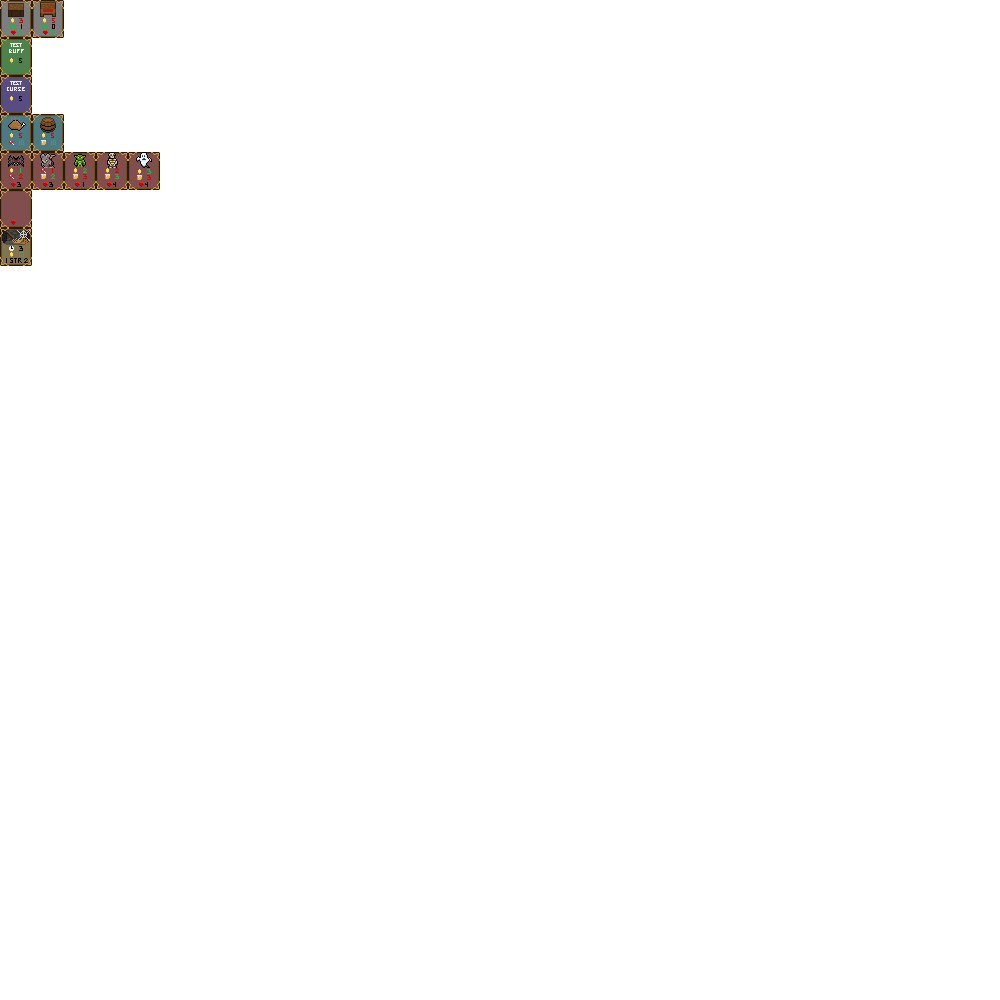
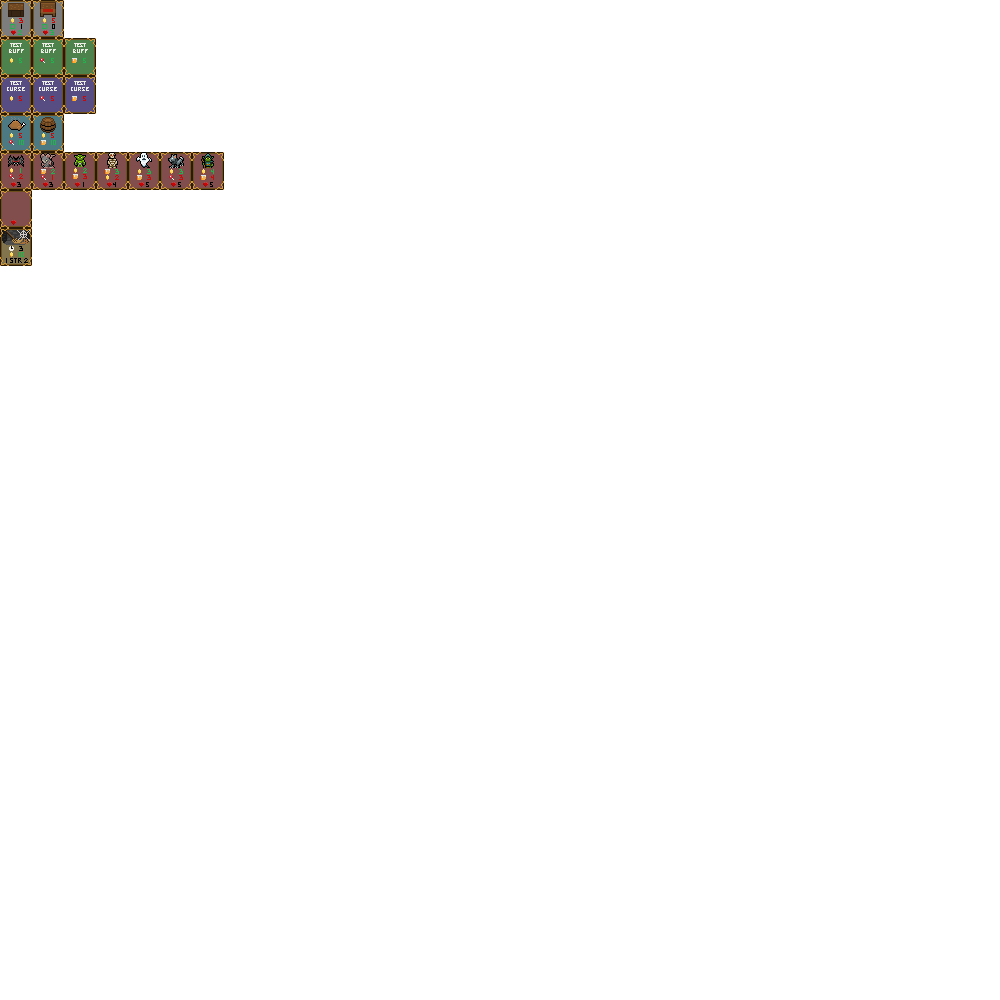
Added More Curses, Buffs and Characters

Changed region(s): [[0.031, 0.031, 0.093, 0.124], [0.155, 0.155, 0.248, 0.217]]

diff --git a/db.js b/db.js
@@ -5,7 +5,11 @@ var OBJECTSPRITES = {
 
 var BUFFCURSESPRITES = {
     "testBuff" : new Vector2D(0, 1),
-    "testCurse" : new Vector2D(0, 2)
+    "testBuff1" : new Vector2D(1, 1),
+    "testBuff2" : new Vector2D(2,1),
+    "testCurse" : new Vector2D(0, 2),
+    "testCurse1" : new Vector2D(1, 2),
+    "testCurse2" : new Vector2D(2, 2)
 }
 
 var RSCCARDSPRITES = {
@@ -17,7 +21,10 @@ var CHARCARDSPRITES = {
     "bat" : new Vector2D(0, 4),
     "rat" : new Vector2D(1, 4),
     "goblin" : new Vector2D(2, 4),
-    "skeleton" : new Vector2D(3, 4)
+    "skeleton" : new Vector2D(3, 4),
+    "ghost" : new Vector2D(4,4),
+    "wolf" : new Vector2D(5,4),
+    "goblinmage" : new Vector2D(6,4)
 }
 
 var QUESTCARDSPRITES = {
@@ -133,13 +140,21 @@ class Database
     LoadBuffCards()
     {
         this.buffCards.push(new BuffCard(BUFFCURSESPRITES["testBuff"].x, BUFFCURSESPRITES["testBuff"].y,
-                                             BUFFCURSESPRITES["testBuff"].x, BUFFCURSESPRITES["testBuff"].y, this.gold, 5));
+                                         BUFFCURSESPRITES["testBuff"].x, BUFFCURSESPRITES["testBuff"].y, this.gold, 5));
+        this.buffCards.push(new BuffCard(BUFFCURSESPRITES["testBuff1"].x, BUFFCURSESPRITES["testBuff1"].y,
+                                         BUFFCURSESPRITES["testBuff1"].x, BUFFCURSESPRITES["testBuff1"].y, this.food, 5));
+        this.buffCards.push(new BuffCard(BUFFCURSESPRITES["testBuff2"].x, BUFFCURSESPRITES["testBuff2"].y,
+                                         BUFFCURSESPRITES["testBuff2"].x, BUFFCURSESPRITES["testBuff2"].y, this.beer, 5));
     }
 
     LoadCurseCards()
     {
         this.curseCards.push(new CurseCard(BUFFCURSESPRITES["testCurse"].x, BUFFCURSESPRITES["testCurse"].y,
                                            BUFFCURSESPRITES["testCurse"].x, BUFFCURSESPRITES["testCurse"].y, this.gold, 5));
+        this.curseCards.push(new BuffCard(BUFFCURSESPRITES["testCurse1"].x, BUFFCURSESPRITES["testCurse1"].y,
+                                           BUFFCURSESPRITES["testCurse1"].x, BUFFCURSESPRITES["testCurse1"].y, this.food, 5));
+        this.curseCards.push(new BuffCard(BUFFCURSESPRITES["testCurse2"].x, BUFFCURSESPRITES["testCurse2"].y,
+                                           BUFFCURSESPRITES["testCurse2"].x, BUFFCURSESPRITES["testCurse2"].y, this.beer, 5));
     }
 
     LoadResourceCards()
@@ -167,7 +182,19 @@ class Database
         this.charCards.push(new CharacterCard(CHARCARDSPRITES["skeleton"].x, CHARCARDSPRITES["skeleton"].y,
                                               CHARCARDSPRITES["skeleton"].x, CHARCARDSPRITES["skeleton"].y, 4, 
                                               [ new ResourceUpkeep(this.gold, -2), new ResourceUpkeep(this.beer, 3) ], "Skeleton",
-                                              new CharacterStats(1,2,2)));                                   
+                                              new CharacterStats(1,2,2)));
+        this.charCards.push(new CharacterCard(CHARCARDSPRITES["ghost"].x, CHARCARDSPRITES["ghost"].y,
+                                              CHARCARDSPRITES["ghost"].x, CHARCARDSPRITES["ghost"].y, 5, 
+                                              [ new ResourceUpkeep(this.gold, 3), new ResourceUpkeep(this.beer, -3) ], "Ghost",
+                                              new CharacterStats(2,1,3)));
+        this.charCards.push(new CharacterCard(CHARCARDSPRITES["wolf"].x, CHARCARDSPRITES["wolf"].y,
+                                              CHARCARDSPRITES["wolf"].x, CHARCARDSPRITES["wolf"].y, 5, 
+                                              [ new ResourceUpkeep(this.gold, 3), new ResourceUpkeep(this.food, -3) ], "Dire Wolf",
+                                              new CharacterStats(1,3,2)));
+        this.charCards.push(new CharacterCard(CHARCARDSPRITES["goblinmage"].x, CHARCARDSPRITES["goblinmage"].y,
+                                              CHARCARDSPRITES["goblinmage"].x, CHARCARDSPRITES["goblinmage"].y, 5, 
+                                              [ new ResourceUpkeep(this.gold, 4), new ResourceUpkeep(this.beer, -4) ], "Goblin Mage",
+                                              new CharacterStats(3,1,2)));                                   
     }
 
     LoadQuestCards()
